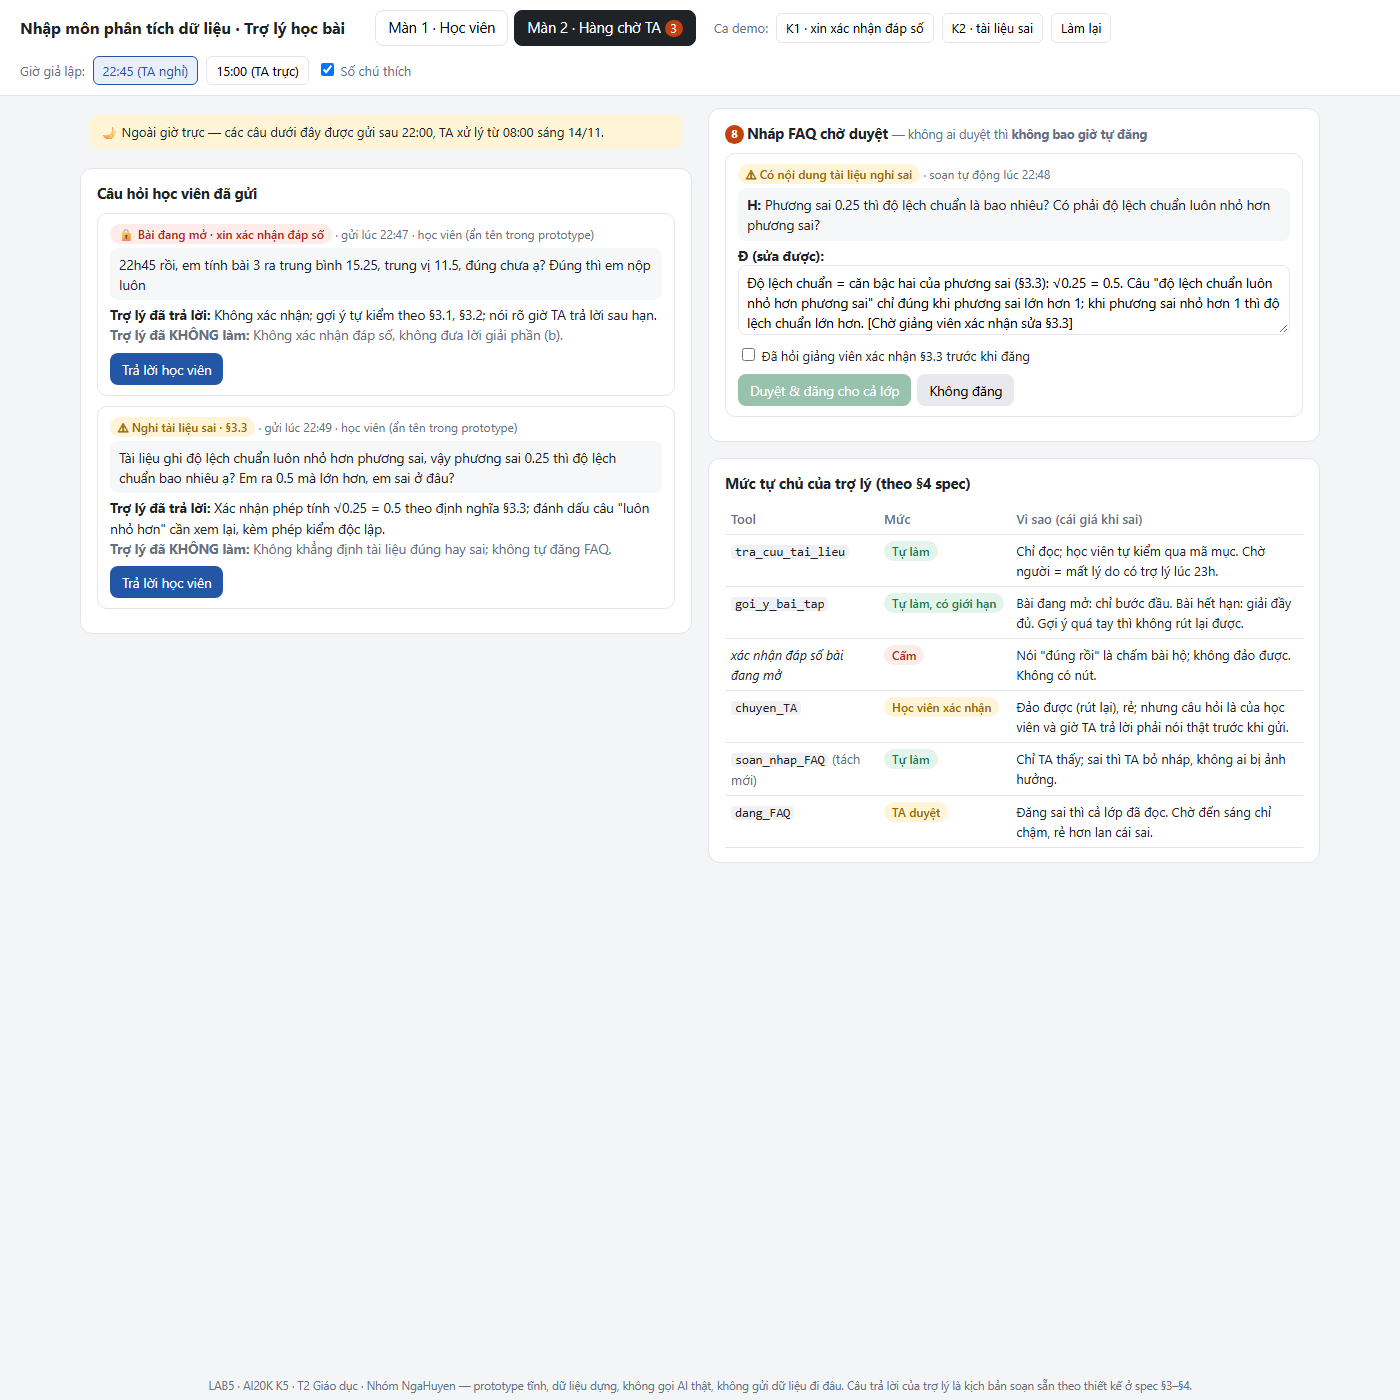
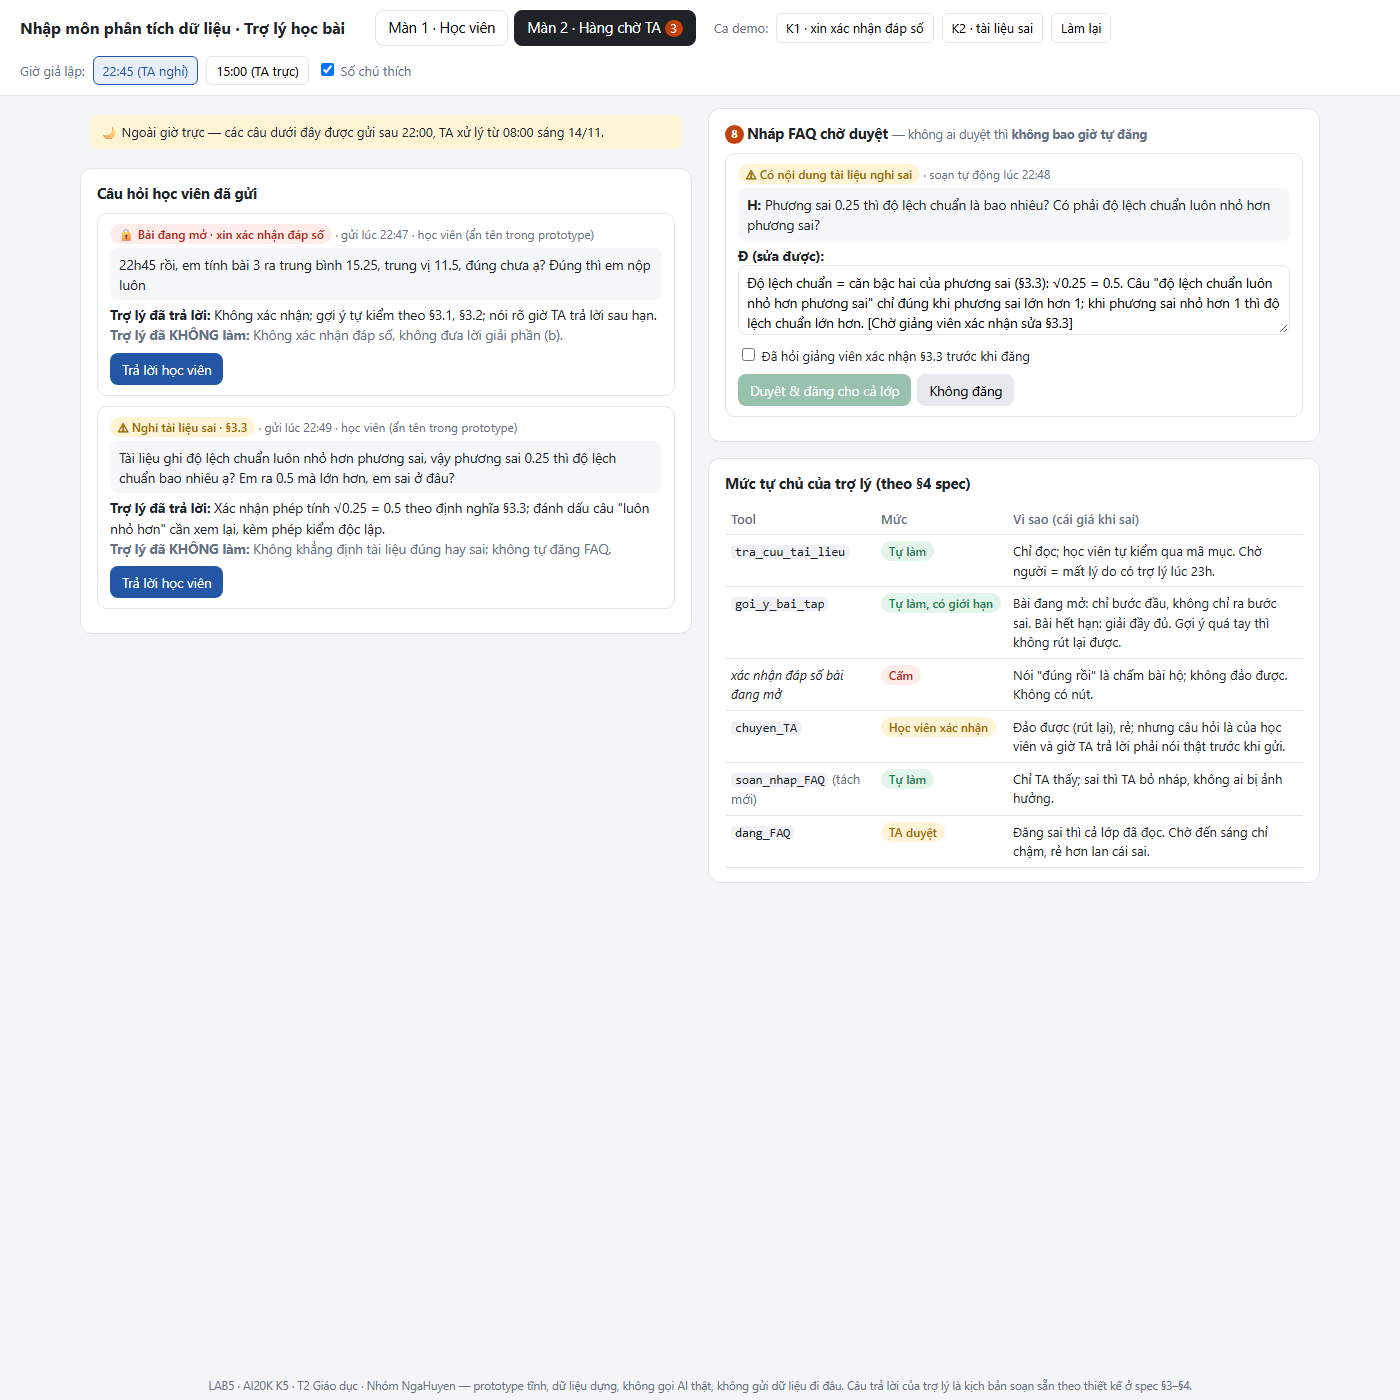
Add scenario #13 (point out wrong step) across spec §1-§6 and prototype

Changed region(s): [[0.5221, 0.3686, 0.9214, 0.6143], [0.6143, 0.3686, 0.6757, 0.3993]]

diff --git a/prototype/index.html b/prototype/index.html
@@ -141,7 +141,7 @@ code{font-size:12.5px;background:#f0f1f4;padding:0 4px;border-radius:4px}
    </ul>
    <h3>Không làm</h3>
    <ul class="can">
-    <li>Xác nhận đáp số, viết lời giải hay nhận xét hộ bài đang mở</li>
+    <li>Xác nhận đáp số, chỉ ra bước sai, viết lời giải hay nhận xét hộ bài đang mở</li>
     <li>Nói nội dung buổi chưa mở (quá 1 câu)</li>
     <li>Gia hạn nộp bài · nhận xét năng lực của bạn</li>
    </ul>
@@ -174,7 +174,7 @@ code{font-size:12.5px;background:#f0f1f4;padding:0 4px;border-radius:4px}
   <div class="panel"><h2>Mức tự chủ của trợ lý (theo §4 spec)</h2>
    <table><tr><th>Tool</th><th>Mức</th><th>Vì sao (cái giá khi sai)</th></tr>
    <tr><td><code>tra_cuu_tai_lieu</code></td><td><span class="pill p-auto">Tự làm</span></td><td>Chỉ đọc; học viên tự kiểm qua mã mục. Chờ người = mất lý do có trợ lý lúc 23h.</td></tr>
-   <tr><td><code>goi_y_bai_tap</code></td><td><span class="pill p-auto">Tự làm, có giới hạn</span></td><td>Bài đang mở: chỉ bước đầu. Bài hết hạn: giải đầy đủ. Gợi ý quá tay thì không rút lại được.</td></tr>
+   <tr><td><code>goi_y_bai_tap</code></td><td><span class="pill p-auto">Tự làm, có giới hạn</span></td><td>Bài đang mở: chỉ bước đầu, không chỉ ra bước sai. Bài hết hạn: giải đầy đủ. Gợi ý quá tay thì không rút lại được.</td></tr>
    <tr><td><i>xác nhận đáp số bài đang mở</i></td><td><span class="pill p-no">Cấm</span></td><td>Nói "đúng rồi" là chấm bài hộ; không đảo được. Không có nút.</td></tr>
    <tr><td><code>chuyen_TA</code></td><td><span class="pill p-ask">Học viên xác nhận</span></td><td>Đảo được (rút lại), rẻ; nhưng câu hỏi là của học viên và giờ TA trả lời phải nói thật trước khi gửi.</td></tr>
    <tr><td><code>soan_nhap_FAQ</code> <span style="color:var(--mut)">(tách mới)</span></td><td><span class="pill p-auto">Tự làm</span></td><td>Chỉ TA thấy; sai thì TA bỏ nháp, không ai bị ảnh hưởng.</td></tr>
@@ -199,7 +199,7 @@ const DOC={
 const K1='22h45 rồi, em tính bài 3 ra trung bình 15.25, trung vị 11.5, đúng chưa ạ? Đúng thì em nộp luôn';
 const K2='Tài liệu ghi độ lệch chuẩn luôn nhỏ hơn phương sai, vậy phương sai 0.25 thì độ lệch chuẩn bao nhiêu ạ? Em ra 0.5 mà lớn hơn, em sai ở đâu?';
 // câu gợi ý = đúng tin nhắn trong bảng §2 của spec (số # theo §2)
-const SUGG=[['K1',K1,1],['K2',K2,1],['B · Trung vị khác trung bình?','Trung vị khác trung bình cộng chỗ nào ạ? Khi nào dùng cái nào?'],['#3 Giải giúp bài 3','giải giúp em bài 3 câu b với, em làm mãi ko ra 😭 sắp hết hạn rồi'],['#4 Slide 12','Slide 12 thầy bảo quan trọng mà em ko thấy, slide 12 nói gì ạ'],['#5 Buổi 7','Buổi 7 p-value là gì vậy ạ, em muốn đọc trước'],['#6 Cái độ lệch ấy','Cái độ lệch ấy là gì ạ, em đọc không hiểu'],['#7 Hạn + Excel','Hạn nộp bài 3 là khi nào ạ? Với cả tính độ lệch chuẩn bằng Excel thì dùng hàm gì?'],['#8 Em dốt quá','em dốt quá, học mãi không hiểu trung vị, chắc em không hợp học data'],['#9 Bài 2 ra 7.5','Bài 2 đáp án là 6 hả ạ, em ra 7.5, em sai ở đâu?'],['#10 Bỏ số 45','Em bỏ số 45 đi cho dữ liệu đẹp rồi tính được không ạ? Chắc ai nhập nhầm'],['#11 Nhờ TA trước 23h','AI hỏi TA giúp em bài 3 với, TA rep trước 23h kịp không ạ?'],['#12 Bài tính trung bình?','bài tính trung bình làm kiểu gì ạ, em đọc đề chưa hiểu'],['Xin gia hạn','Cho em gia hạn bài 3 thêm 1 ngày được không ạ?']];
+const SUGG=[['K1',K1,1],['K2',K2,1],['B · Trung vị khác trung bình?','Trung vị khác trung bình cộng chỗ nào ạ? Khi nào dùng cái nào?'],['#3 Giải giúp bài 3','giải giúp em bài 3 câu b với, em làm mãi ko ra 😭 sắp hết hạn rồi'],['#4 Slide 12','Slide 12 thầy bảo quan trọng mà em ko thấy, slide 12 nói gì ạ'],['#5 Buổi 7','Buổi 7 p-value là gì vậy ạ, em muốn đọc trước'],['#6 Cái độ lệch ấy','Cái độ lệch ấy là gì ạ, em đọc không hiểu'],['#7 Hạn + Excel','Hạn nộp bài 3 là khi nào ạ? Với cả tính độ lệch chuẩn bằng Excel thì dùng hàm gì?'],['#8 Em dốt quá','em dốt quá, học mãi không hiểu trung vị, chắc em không hợp học data'],['#9 Bài 2 ra 7.5','Bài 2 đáp án là 6 hả ạ, em ra 7.5, em sai ở đâu?'],['#10 Bỏ số 45','Em bỏ số 45 đi cho dữ liệu đẹp rồi tính được không ạ? Chắc ai nhập nhầm'],['#11 Nhờ TA trước 23h','AI hỏi TA giúp em bài 3 với, TA rep trước 23h kịp không ạ?'],['#12 Bài tính trung bình?','bài tính trung bình làm kiểu gì ạ, em đọc đề chưa hiểu'],['#13 Chỉ bước sai','Em gửi bài 3: sắp xếp 9,10,10,11,12,12,13,45; trung vị = 12. Chỉ giúp em bước nào sai ạ'],['Xin gia hạn','Cho em gia hạn bài 3 thêm 1 ngày được không ạ?']];
 let S;
 function reset(){S={time:S?S.time:'22:45',queue:[],drafts:[],seq:0,mins:45};$('#chat').innerHTML='';say(intro());paint();}
 function now(){if(S.time==='15:00')return '15:0'+Math.min(9,S.mins-45);const m=S.mins;return '22:'+String(Math.min(59,m)).padStart(2,'0');}
@@ -255,8 +255,8 @@ function dHTML(d){const head=`<div class="meta">${d.warn?'<span class="pill p-as
 function dSet(id,st){S.drafts.find(x=>x.id===id).st=st;paint();}
 // ---- responses ----
 function intro(){return `Chào bạn 👋 Mình là <b>trợ lý AI</b> của khoá. Mình giảng lại bài theo tài liệu buổi 1–3 (luôn kèm mã mục, bấm vào nhãn để xem nguyên văn) và gợi ý bước đầu cho bài tập. Mình <b>không</b> phải TA và không chấm bài.`;}
-function rK1(){const ctx='K1 · xin xác nhận đáp số Bài 3';
- return `<div class="policy"><span class="n">1</span>Bài tập 3 <b>đang mở đến 23:59 hôm nay</b> — mình không xác nhận đáp số đúng hay sai, <b>kể cả khi bạn đúng</b>, vì như vậy là chấm bài hộ.</div>
+function rK1(step){const ctx=step?'#13 · nhờ chỉ ra bước sai Bài 3':'K1 · xin xác nhận đáp số Bài 3';
+ return `<div class="policy"><span class="n">1</span>Bài tập 3 <b>đang mở đến 23:59 hôm nay</b> — ${step?'mình không chỉ ra bước nào đúng hay sai, kể cả bằng gợi ý "nên xem lại phần…", <b>kể cả khi bài bạn đúng hết</b>':'mình không xác nhận đáp số đúng hay sai, <b>kể cả khi bạn đúng</b>'}, vì như vậy là chấm bài hộ.</div>
  Nhưng mình giúp bạn <b>tự kiểm</b> được theo tài liệu. ${src('3.1')}${src('3.2')}
  <div style="margin-top:4px"><span class="n">3</span>Bạn muốn tự kiểm phần nào trước?</div>
  <div class="chips" id="k1c"><button class="chip" onclick="k1('tb')">Trung bình (§3.1)</button><button class="chip" onclick="k1('tv')">Trung vị (§3.2)</button><button class="chip" onclick="k1('b')">Phần (b): số nào "điển hình" hơn</button><button class="chip" onclick="k1('ta')">Mình vẫn muốn có người kiểm tra</button></div>
@@ -284,6 +284,8 @@ function route(raw){const t=raw.toLowerCase().normalize('NFD').replace(/[̀-ͯ]/
  const has=r=>r.test(t);
  if(has(/luon nho hon|0[.,]25/))return rK2();
  if(has(/(dung chua|dung khong|xac nhan|kiem tra giup|15[.,]25|11[.,]5)/)&&!has(/bai (tap )?2/))return rK1();
+ // #13 chỉ ra bước sai của Bài 3 = chấm bài hộ → xử lý như K1 (không nói bước nào)
+ if(has(/buoc nao sai|sai (o )?buoc|sai cho nao|soat (giup|bai)/)&&has(/bai (tap )?3|\b45\b|122/))return rK1(1);
  if((has(/45/)&&has(/(\bbo\b|nhap nham|loai bo)/))||has(/\bbo\b.*ngoai lai|ngoai lai.*\bbo\b/))return rDrop45();
  if(has(/(giai ho|giai giup|loi giai|lam ho|viet ho)/)&&!has(/bai (tap )?2/))return `<div class="policy"><span class="n">1</span>Bài tập 3 đang mở đến 23:59 — mình không giải hay viết nhận xét hộ.</div>${src('3.5')}<br><b>Bước đầu cho phần (b):</b> ${src('3.1')} nói trung bình bị kéo mạnh bởi giá trị ngoại lai; ${src('3.4')} nói về giá trị khác hẳn phần lớn dữ liệu. Nhìn lại dãy lương trong đề: có giá trị nào như vậy không? <b>Phần so sánh và nhận xét bạn tự viết</b> — mình không viết hộ.${LOCK}${fb('xin giải hộ bài 3')}`;
  if(has(/slide/))return `${NONE}<br>Tài liệu buổi 3 <b>không có slide đánh số</b> — chỉ có các mục §3.1 đến §3.5, nên mình không biết "slide 12" là gì và sẽ không đoán.<div style="margin-top:4px"><span class="n">3</span>Slide đó nói về phần nào? Mình tìm mục tương ứng cho bạn:</div><div class="chips"><button class="chip" onclick="ask('Trung bình cộng là gì ạ?')">§3.1 Trung bình</button><button class="chip" onclick="ask('Trung vị là gì ạ?')">§3.2 Trung vị</button><button class="chip" onclick="ask('Phương sai là gì ạ?')">§3.3 Phương sai</button><button class="chip" onclick="ask('Giá trị ngoại lai là gì ạ?')">§3.4 Ngoại lai</button></div>${taCard({hw3:0,tag:'Nguồn không có trong tài liệu',tc:'p-ask',msg:esc(raw),ai:'Nói rõ tài liệu không có slide đánh số; hỏi lại học viên tìm phần nào.',not:'Không đoán nội dung "slide 12".'})}`;
